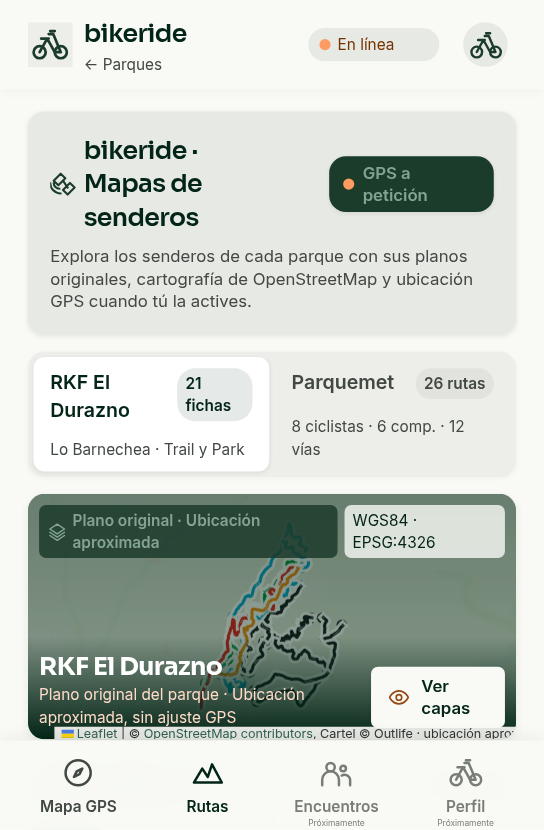
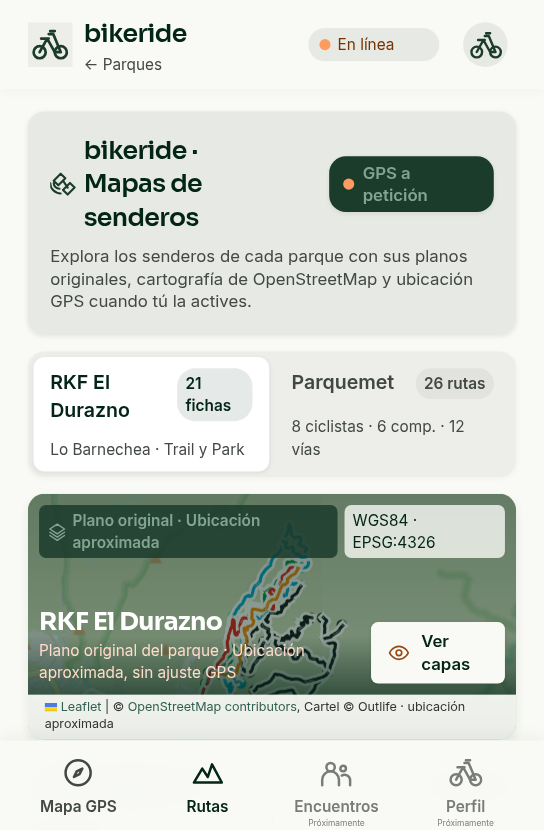
fix: keep complete map attribution readable on mobile

Changed region(s): [[0.0312, 0.6928, 0.9688, 0.9036], [0.25, 0.6627, 0.3125, 0.6928]]

diff --git a/geographic/bikeride.css b/geographic/bikeride.css
@@ -37,7 +37,7 @@
 [data-bikeride-park=parquemet] .bikeride-park-count{white-space:nowrap;max-width:none}
 .bikeride-park-note{font:400 11px/16px Inter,system-ui,sans-serif;color:#424843}
 .bikeride-ui #map-card:not(.fullscreen){height:176px;margin:0 0 12px;border:0;border-radius:12px;box-shadow:0 3px 6px #03251712}
-.bikeride-ui .map-card:not(.fullscreen) .map-cover{display:flex;flex-direction:column;justify-content:space-between;padding:8px;background:linear-gradient(0deg,#032517 0%,#03251770 42%,#03251788 100%);color:#fff}
+.bikeride-ui .map-card:not(.fullscreen) .map-cover{display:flex;flex-direction:column;justify-content:space-between;padding:8px 8px calc(var(--bikeride-attribution-height,28px) + 8px);background:linear-gradient(0deg,#032517 0%,#03251770 42%,#03251788 100%);color:#fff}
 .bikeride-map-badges{display:flex;align-items:flex-start;justify-content:space-between;gap:5px;width:100%;text-align:left}
 .bikeride-map-badges>span{display:flex;align-items:center;gap:4px;padding:3px 6px;border-radius:5px;background:#1b3b2bd9;color:#83a590;font:600 11px/16px Inter,system-ui,sans-serif;max-width:64%}
 .bikeride-map-badges>span:last-child{max-width:36%;background:#f9faf5cc;color:#032517;font-weight:400}
@@ -47,7 +47,8 @@
 .bikeride-ui .map-caption small{display:block;font:400 11px/16px Inter,system-ui,sans-serif;color:#ffdbc9;max-width:235px}
 .bikeride-ui .map-open-label{display:flex;align-items:center;gap:8px;flex-shrink:0;max-width:96px;min-height:44px;padding:6px 12px;border:0;border-radius:5px;background:#f9faf5;color:#032517;font:600 12px/16px Inter,system-ui,sans-serif;box-shadow:0 1px 3px #00000015;margin:0}
 .bikeride-ui .map-open-label svg{width:16px;height:16px;color:#954915;flex-shrink:0}
-.bikeride-ui .map-card:not(.fullscreen) .leaflet-control-attribution{font-size:6px;line-height:9px;white-space:nowrap;background:#f9faf5e8}
+.bikeride-ui .map-card:not(.fullscreen) .leaflet-bottom.leaflet-right{left:0;right:0}
+.bikeride-ui .map-card:not(.fullscreen) .leaflet-control-attribution{float:none;width:100%;max-width:100%;padding:3px 12px 5px;font-size:9px!important;line-height:12px;white-space:normal;overflow-wrap:anywhere;text-align:left;background:#f9faf5f2}
 .bikeride-ui .route-filters{background:transparent;border:0;border-radius:0;margin:0 0 12px;scroll-margin-top:76px}
 .bikeride-ui #route-filter-anchor{scroll-margin-top:76px}
 .bikeride-ui .route-filters>header{padding:0;gap:6px}

diff --git a/docs/evidence/bikeride-attribution/README.md b/docs/evidence/bikeride-attribution/README.md
@@ -1,0 +1,21 @@
+# Atribución completa en el mapa
+
+Seguimiento de la revisión visual versión 20. La atribución quedaba cortada porque `white-space:nowrap` excedía el ancho de la tarjeta. Una regla anterior mantenía 9px mediante `!important`, de modo que la reducción prevista a 6px no resolvía el desbordamiento y tampoco era una solución legible.
+
+Se mantiene texto de 9px, con ajuste de línea y ancho limitado al mapa. El título y el botón Ver capas reservan la altura real de la atribución más 8px, medida al montar el control Leaflet y al cambiar su tamaño. La tarjeta conserva posición y altura 176px; no se cambiaron cartografía, datos, navegación ni servicios.
+
+## Capturas verificadas
+
+- [Vista completa 544×830](el-durazno-544x830.png) y [detalle de la tarjeta](el-durazno-card.png).
+- [320px](preview-320.png), [390px con alto 595](preview-390.png), [544px](preview-544.png) y [mapa ampliado 390px](full-390.png).
+- [Tarjeta de Parquemet](parquemet-card.png).
+
+Son capturas de la fuente comprobada con planos públicos, sin fotografía privada ni ubicaciones personales. La referencia original de Stitch sigue fuera de Git; la comparación del sitio privado conserva esa referencia intacta y sustituye sus capturas actuales por las corregidas.
+
+## Comprobaciones ejecutadas
+
+`tests/attribution-browser.mjs` reprodujo primero el desbordamiento. Ahora verifica en ambos parques, a 320/390/544px, que cada fragmento de texto cabe en el mapa, que el tamaño permanece legible y que título, botón y navegación no lo tapan. Incluye ampliar/cerrar y cambiar Cartel→OSM→Cartel. Se repitieron los seis casos en los HTML autónomos privados.
+
+Pasaron 131 pruebas unitarias, la regresión de diseño, los dos flujos de interfaz móvil, disposición GPS con 49 lecturas públicas en cinco tamaños y seguimiento en ambos parques. La revisión independiente inspeccionó las 12 capturas y no detectó problemas atribuibles a este ajuste. Ver [verification.json](verification.json). No se repitió validación física de GPS ni se modificó almacenamiento del usuario.
+
+La actualización alojada se registra en release.json después de comprobarla; este documento no presupone otra audiencia ni un despliegue por sí solo.
